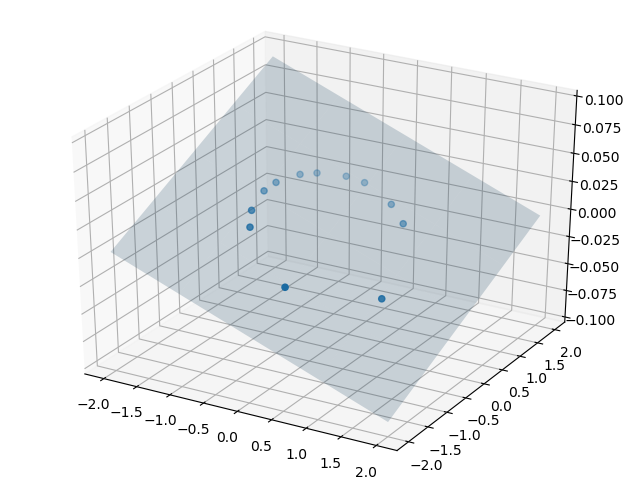
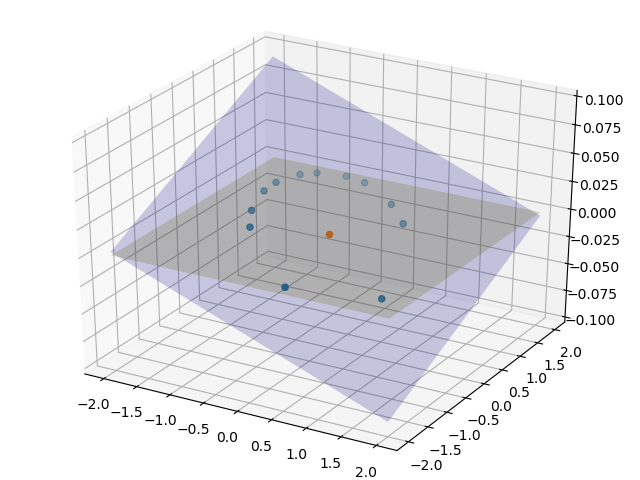
added additional plotting functionality

Changed region(s): [[0.1875, 0.3125, 0.8438, 0.6875]]

diff --git a/mars_orbit/triangulateMars/triangulate.py b/mars_orbit/triangulateMars/triangulate.py
@@ -35,6 +35,29 @@ def loadData():
 
 #----------------------------------------------------------------------------#
 
+def plotEarthLocations(earthLocations):
+
+	# creating a plot
+	fig, ax = plt.subplots()
+
+	# plotting the sun at the origin
+	ax.plot(0, 0, 'yo', markersize=10, label="Sun")
+
+	# plotting different locations of Earth
+	xEarth, yEarth = [], []
+	for location in earthLocations:
+		xEarth.append(location[0])
+		yEarth.append(location[1])
+
+	ax.plot(xEarth, yEarth, 'bo', markersize=5, label="Earth Locations")
+
+	ax.legend(fontsize='x-small')
+	plt.show()
+
+
+#----------------------------------------------------------------------------#
+
+
 def findMars(earthLocation1, marsAngle1, earthLocation2, marsAngle2):
 
 	x1, y1 = earthLocation1       # coordinates of first earth location
@@ -88,9 +111,13 @@ def plotTriangulations(marsLocations, radius):
 		yMars.append(my)
 	ax.plot(xMars, yMars, 'ro', markersize=5, label="Mars's Projection")
 
-	# plotting best fit circle
-	fit = plt.Circle((0,0), radius, color='g', fill=False)
-	ax.add_artist(fit)
+	if radius is not None:	
+		# plotting best fit circle
+		fit = plt.Circle((0,0), radius, color='g', fill=False,
+			label="Best-fit circle")
+		ax.add_artist(fit)
+		s = "Best-fit radius = " + str(round(radius, 4))
+		ax.text(0.75, -2, s, fontsize=7)
 
 	# setting dimensions of the plot
 	lim = 2.2
@@ -98,8 +125,7 @@ def plotTriangulations(marsLocations, radius):
 	ax.set_ylim(-lim, lim)
 	ax.set_aspect('equal')
 	ax.legend(fontsize='x-small')
-	s = "Best-fit radius = " + str(round(radius, 4))
-	ax.text(0.75, -2, s, fontsize=7)
+	
 
 	# function to show the plot
 	plt.show()

diff --git a/mars_orbit/fitPlane/plane.py b/mars_orbit/fitPlane/plane.py
@@ -120,17 +120,23 @@ def plotPlane(coordinates, planeParams):
 	ax = Axes3D(fig)
 
 	# plotting Mars's locations on the celestial sphere
-	ax.scatter(xMars, yMars, zMars)
+	ax.scatter(xMars, yMars, zMars, 'r')
+	ax.scatter(0.0, 0.0, 0.0, 'y')
 
 	# plotting mars's best-fit orbital plane
 	point = np.array([0.0, 0.0, 0.0])
 	normal = np.array([a, b, 1.0])
 	d = -point.dot(normal)
 	xx, yy = np.meshgrid(range(-2, 3), range(-2, 3))
-	z = (-normal[0] * xx - normal[1] * yy - d) * 1. /normal[2]
-	ax.plot_surface(xx, yy, z, alpha=0.2)
+	zm = (-normal[0] * xx - normal[1] * yy - d) * 1. /normal[2]
+	ax.plot_surface(xx, yy, zm, alpha=0.2, color='b',
+		label="Mars Orbital Plane")
 
-	plt.show()
+	# plotting the ecliptic plane
+	ze = yy * 0.0
+	ax.plot_surface(xx, yy, ze, alpha=0.2, color='y', label="Ecliptic Plane")
+
+	plt.savefig("planePlot.png")
 
 #----------------------------------------------------------------------------#
 
